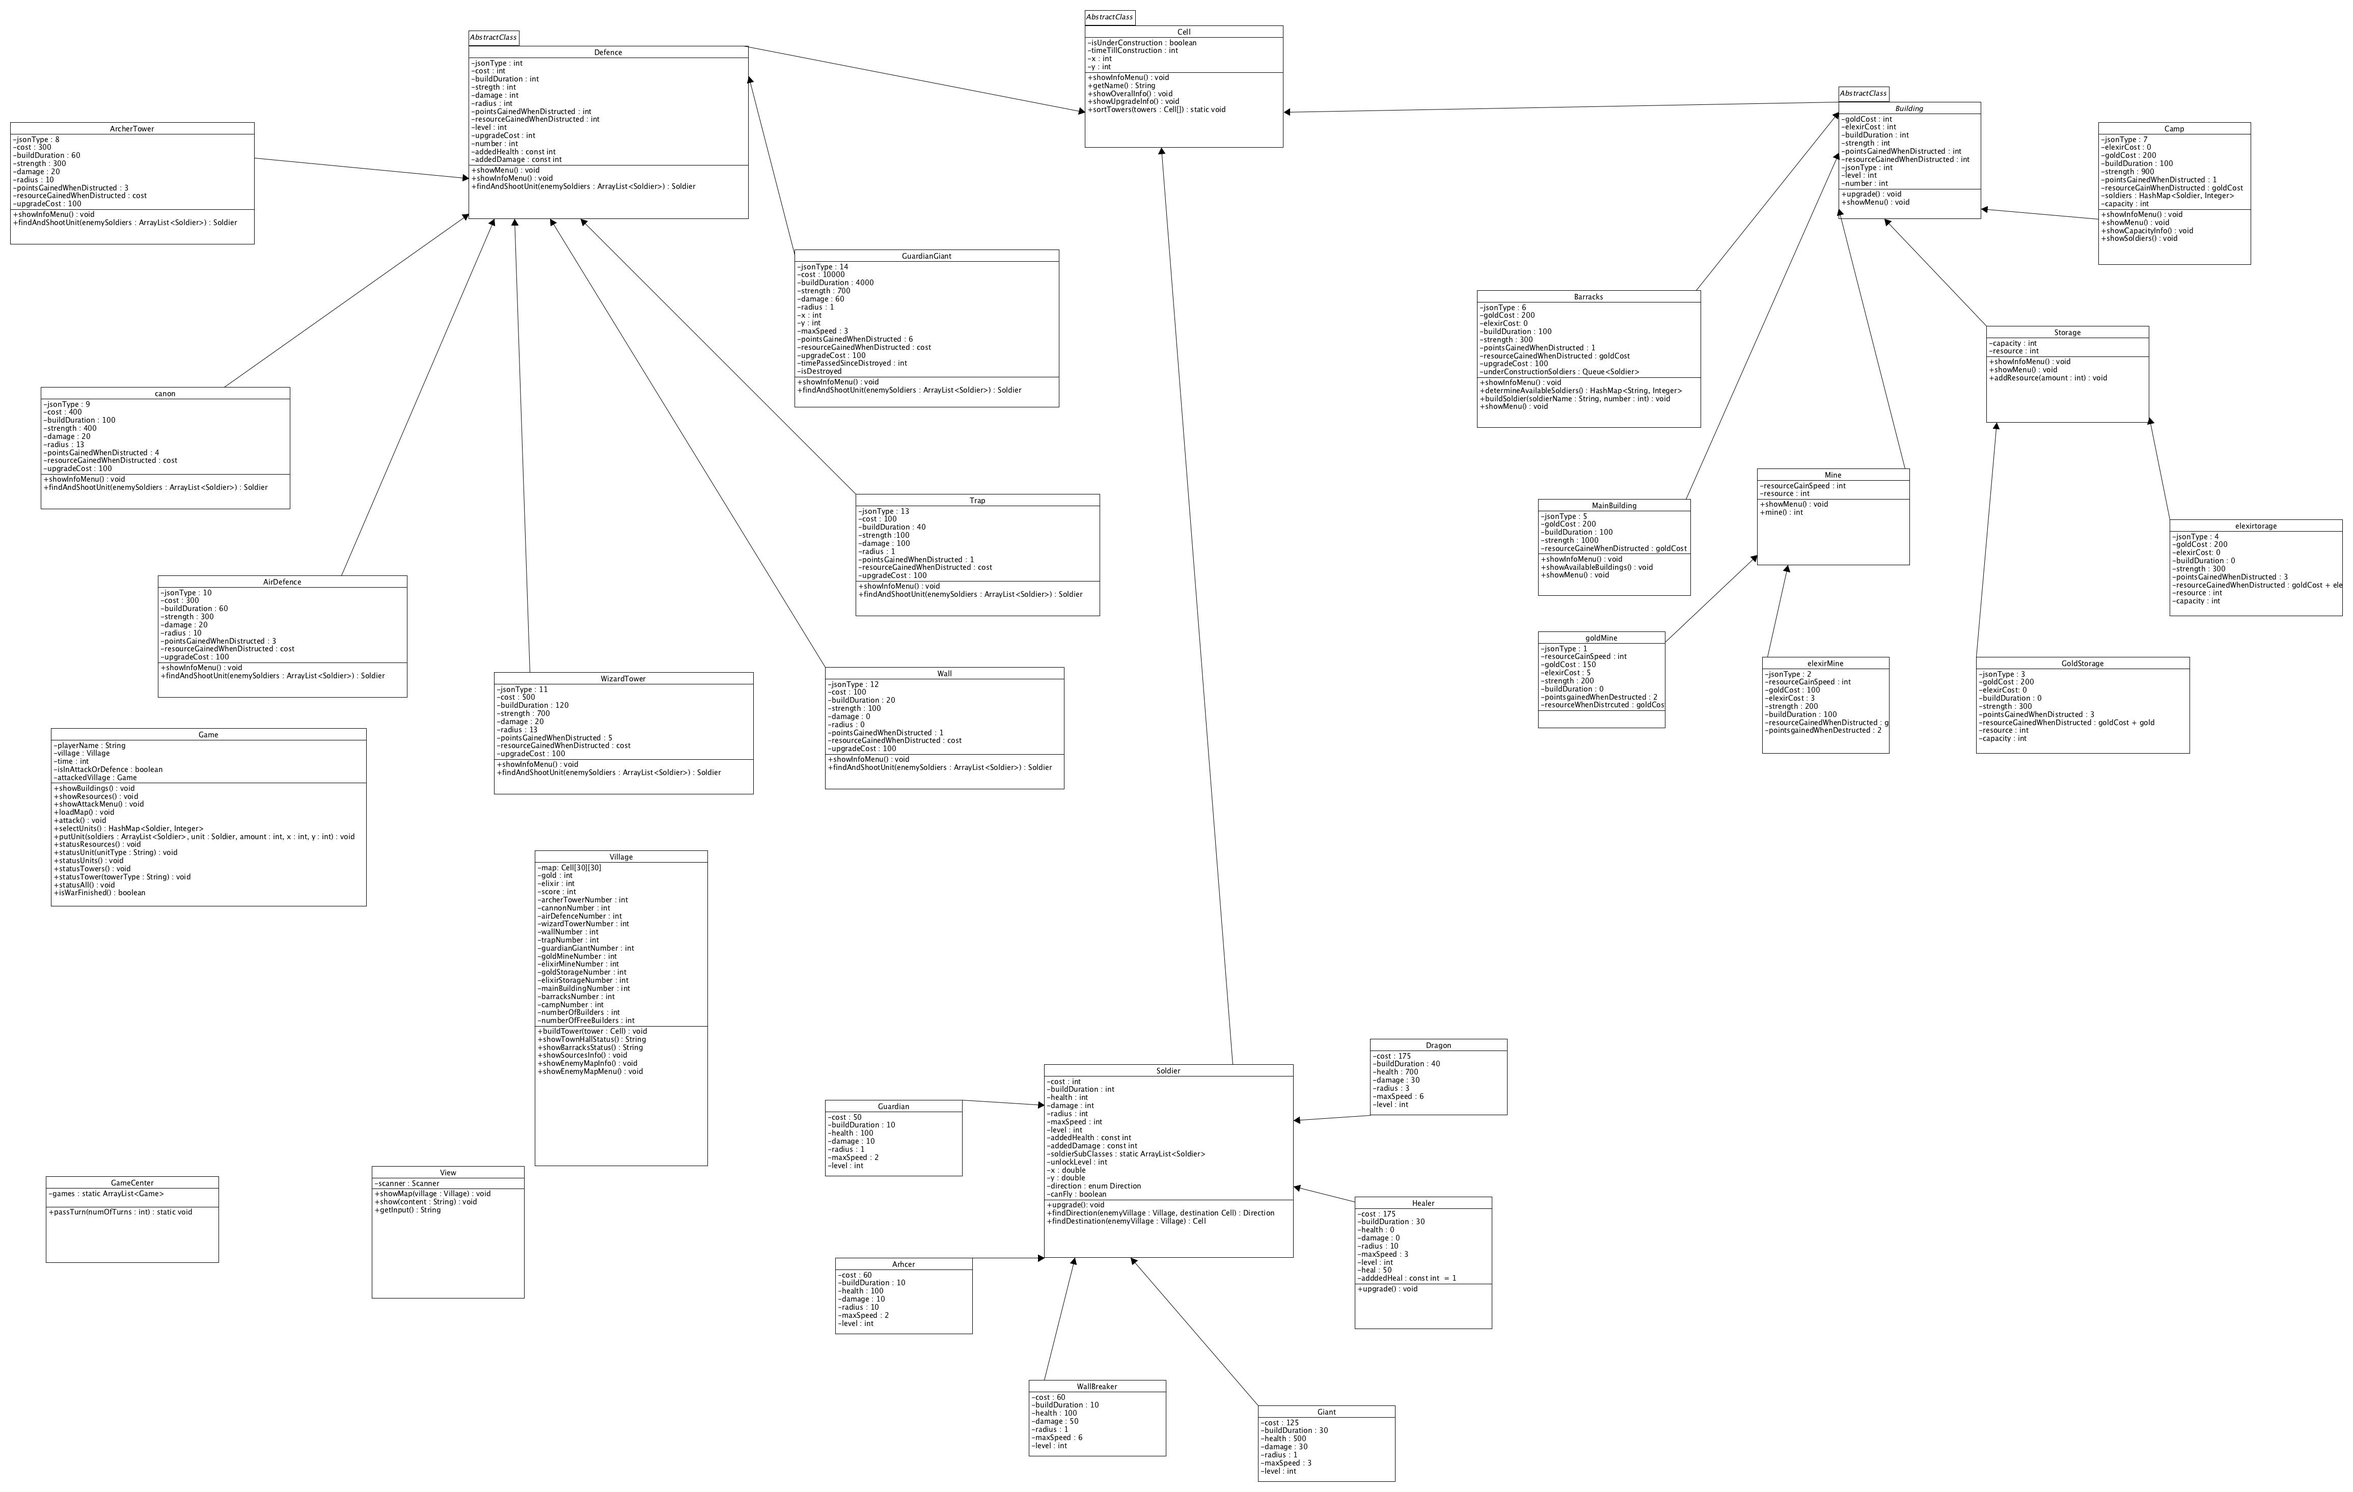
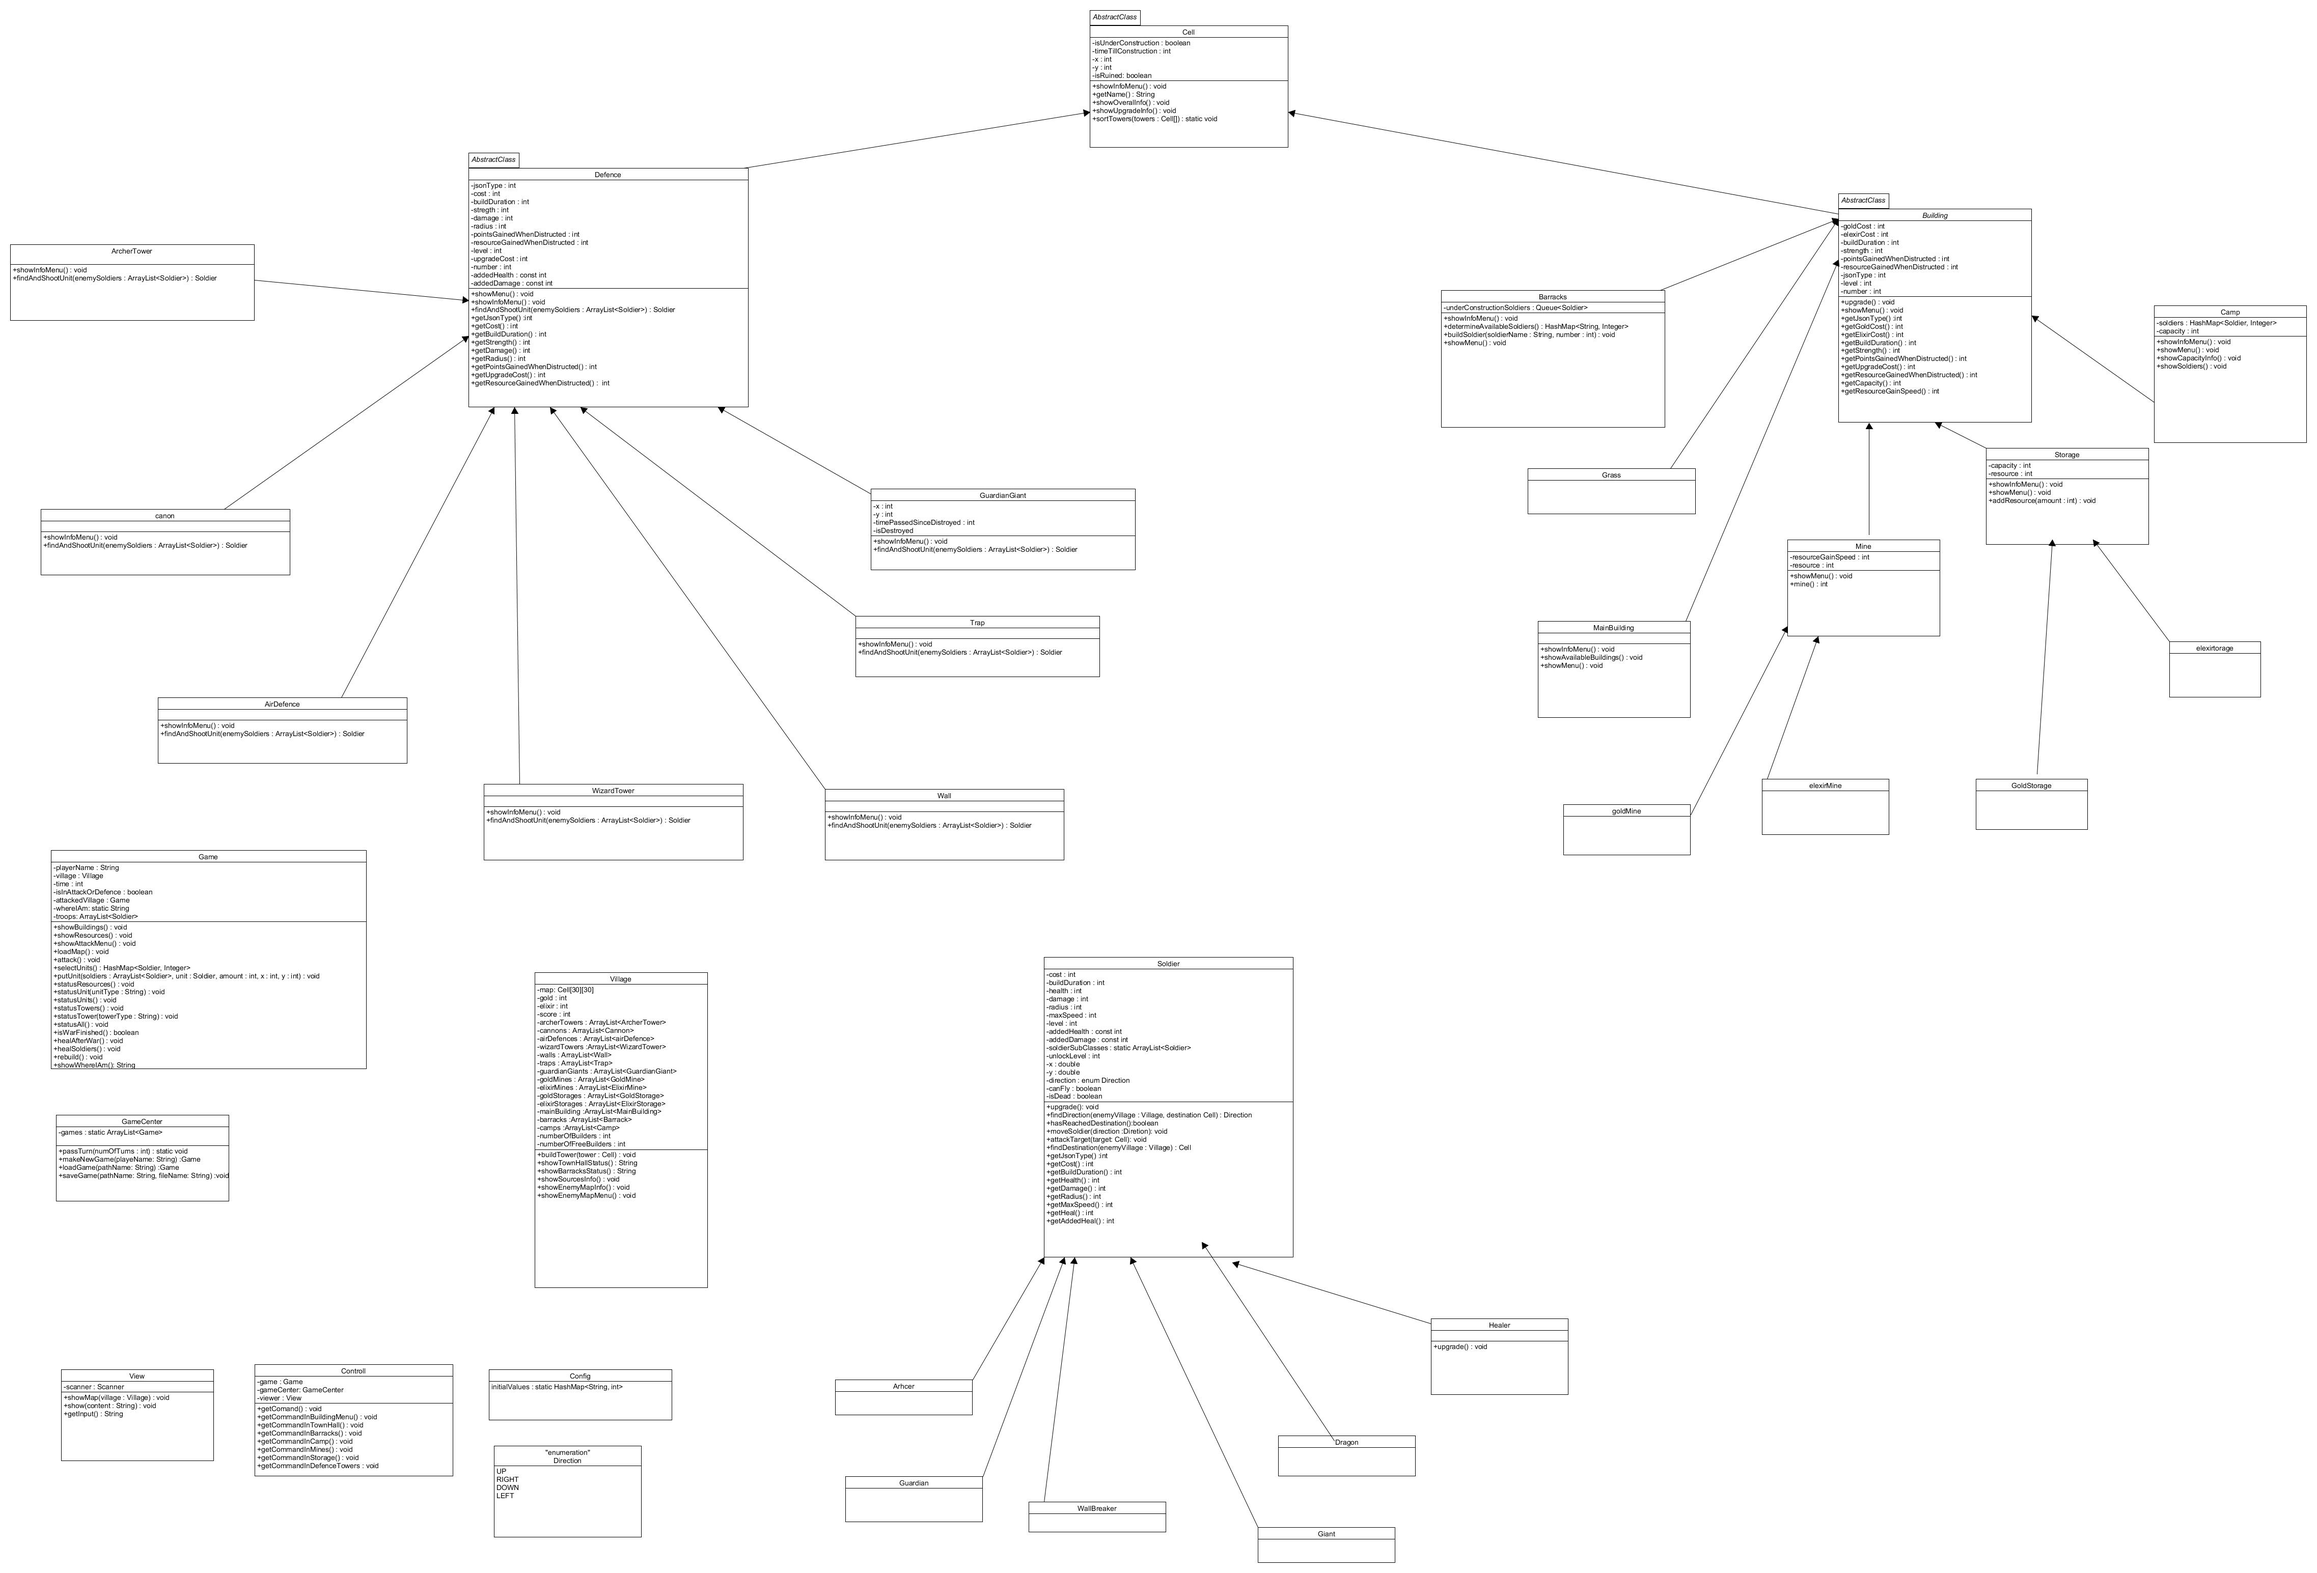
uml

diff --git a/Clash/src/com/company/Models/Soldiers/Soldier.java b/Clash/src/com/company/Models/Soldiers/Soldier.java
@@ -1,0 +1,24 @@
+package com.company.Models.Soldiers;
+
+import com.company.Enums.Directon;
+
+import java.util.ArrayList;
+
+public abstract class Soldier {
+
+    static ArrayList<Soldier> soldierSubClasses;
+    private int cost;
+    private int buildDuration;
+    private int health;
+    private int damage;
+    private int radius;
+    private int maxSpeed;
+    private int level;
+    private int addedHealth;
+    private int addedDamage;
+    private int unlockLevel;
+    private double x , y;
+    boolean canFly;
+    private Directon directon;
+    
+}

diff --git a/Clash/src/com/company/Enums/Directon.java b/Clash/src/com/company/Enums/Directon.java
@@ -1,0 +1,5 @@
+package com.company.Enums;
+
+public enum Directon {
+    UP, RIGHT, DOWN, LEFT;
+}
